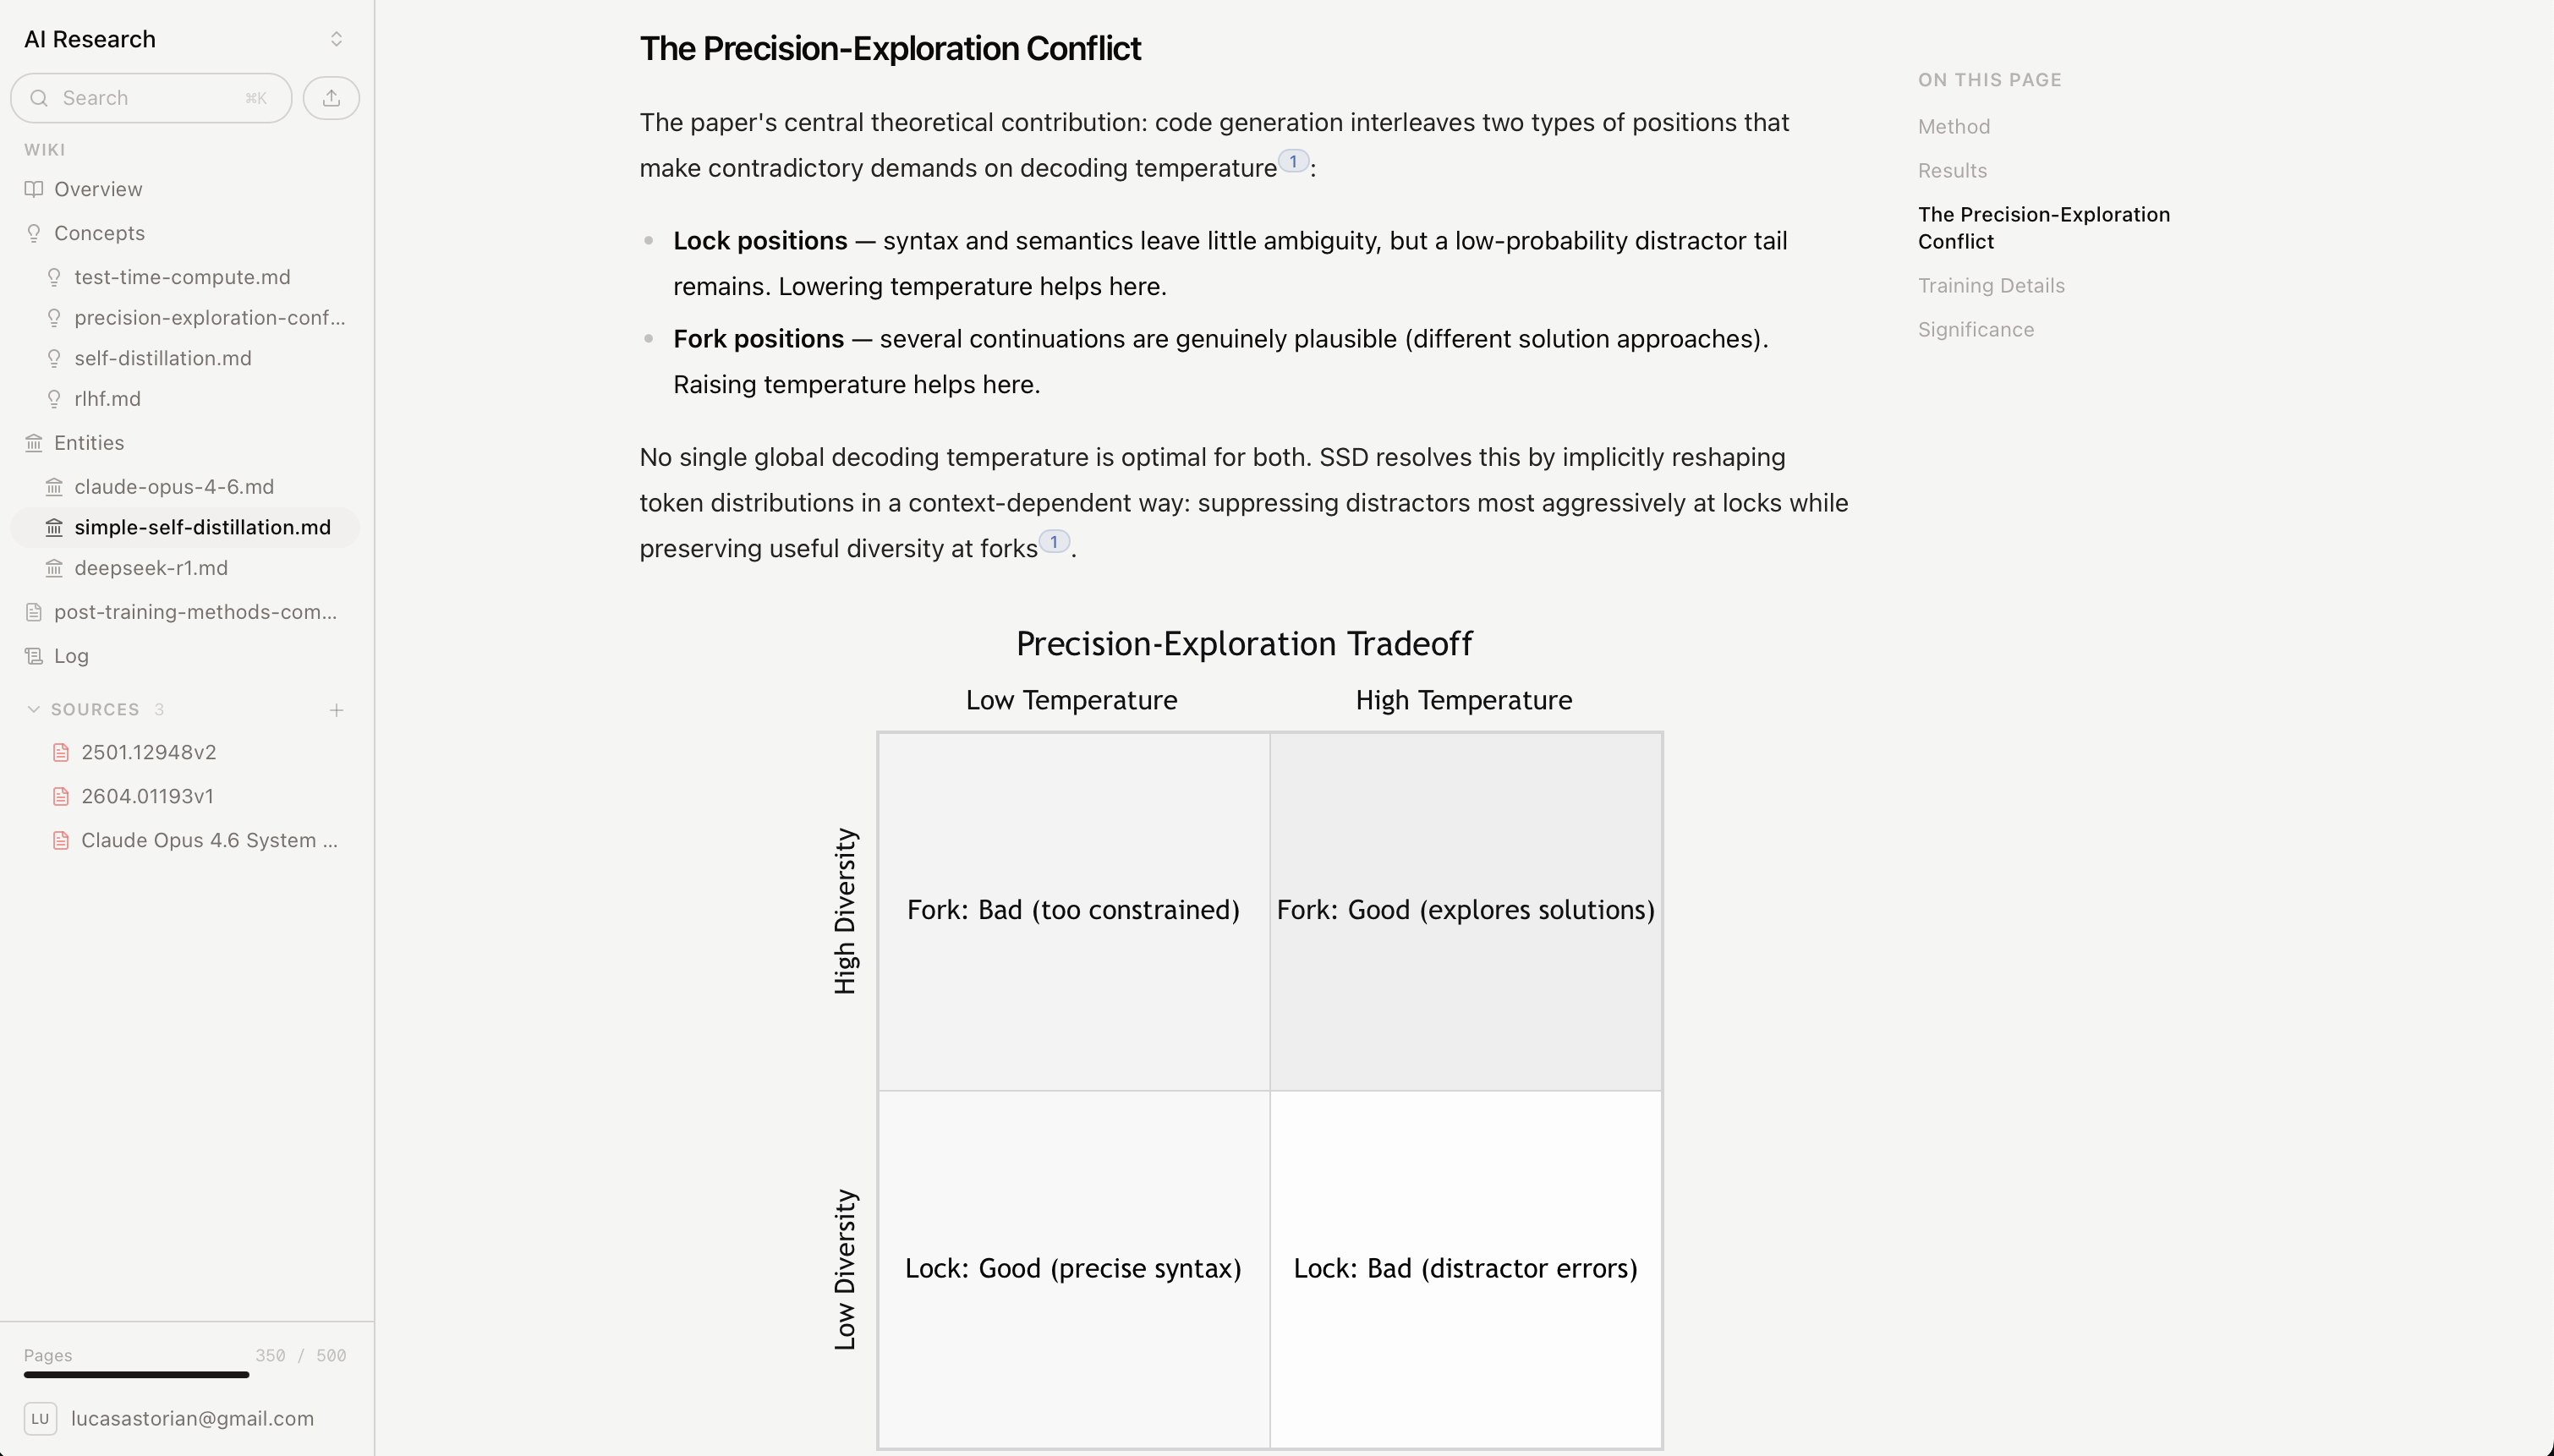
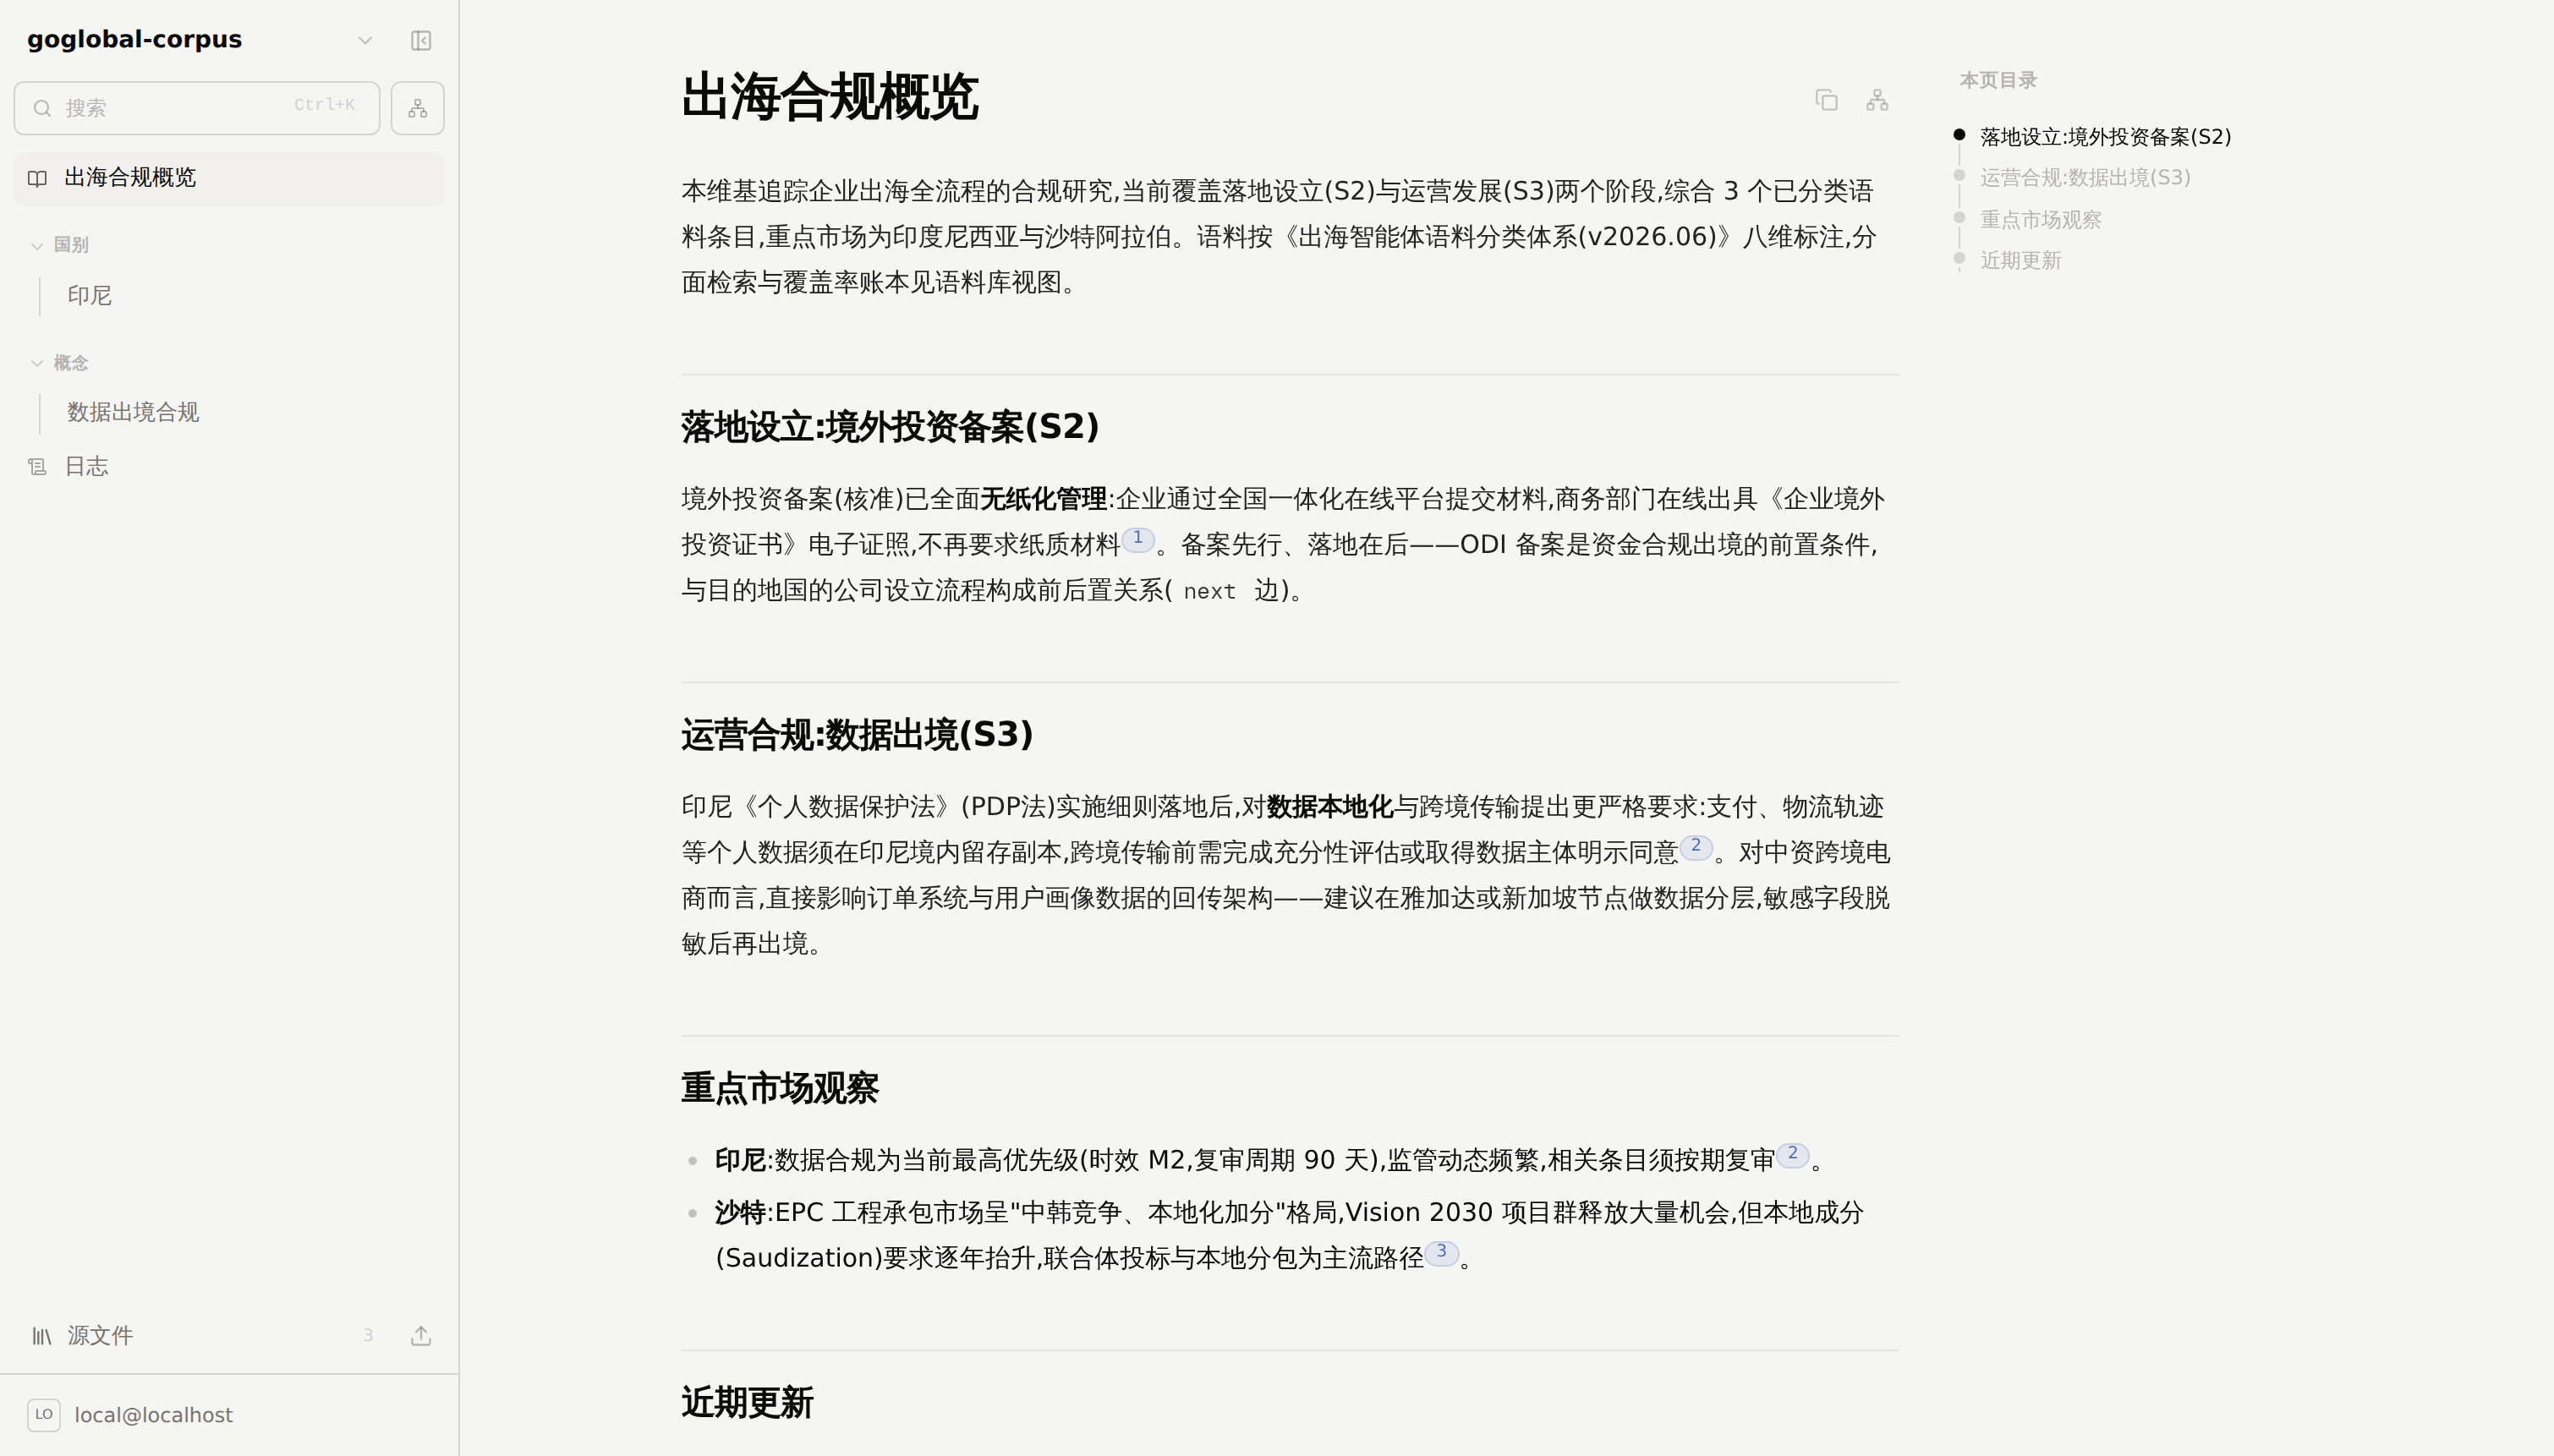
Replace README screenshot with Chinese-UI capture
Retake wiki-page.png against the localized app: a compiled Chinese wiki
page (出海合规概览) with footnote citations to corpus entries, the
本页目录 table of contents, and the Chinese sidebar tree. Same 3020x1722
dimensions as the old English-UI shot. Restore the image reference in
the README intro.

Claude-Session: https://claude.ai/code/session_0147nbXLg9h3SAV64KPyscXJ

diff --git a/README.md b/README.md
@@ -6,6 +6,10 @@
 
 本项目基于 [lucasastorian/llmwiki](https://github.com/lucasastorian/llmwiki)(Andrej Karpathy [LLM Wiki 概念](https://gist.github.com/karpathy/442a6bf555914893e9891c11519de94f)的开源实现)深度改造:在"上传资料 → Claude 通过 MCP 编译维基"的原有能力之上,落地了出海服务语料的**八维分类、分面检索、覆盖率治理与关系层**,前端全量中文化,并剥离全部外部 SaaS 依赖,可完全离线本地运行或在自有基础设施上多用户部署。
 
+<p align="center">
+  <img src="wiki-page.png" alt="LLM Wiki — 已编译的维基页面,带脚注引用与本页目录" width="820" />
+</p>
+
 ## 与上游的差异
 
 | 方向 | 内容 |